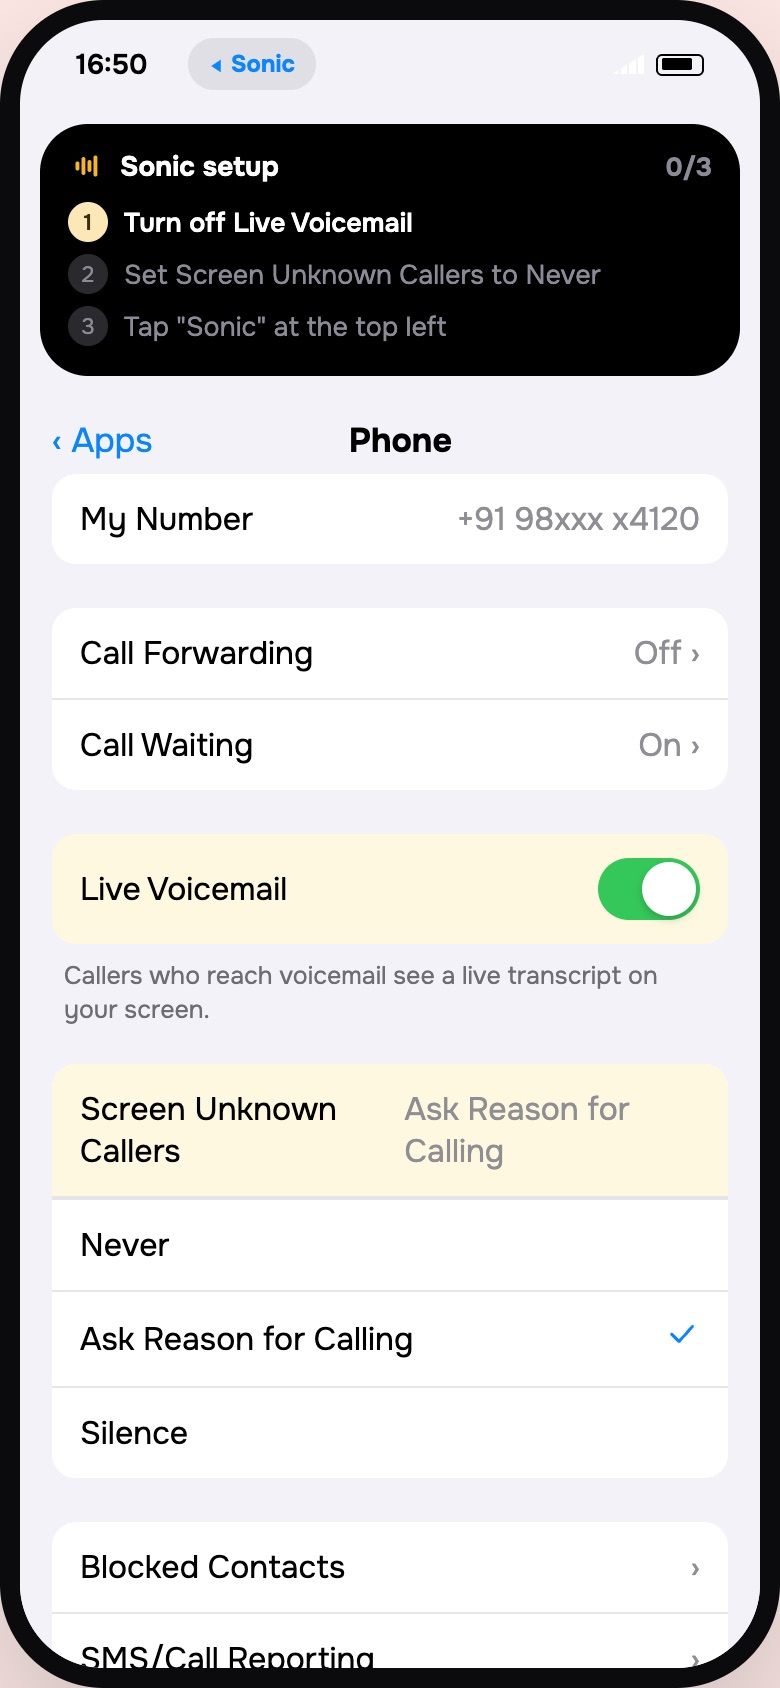
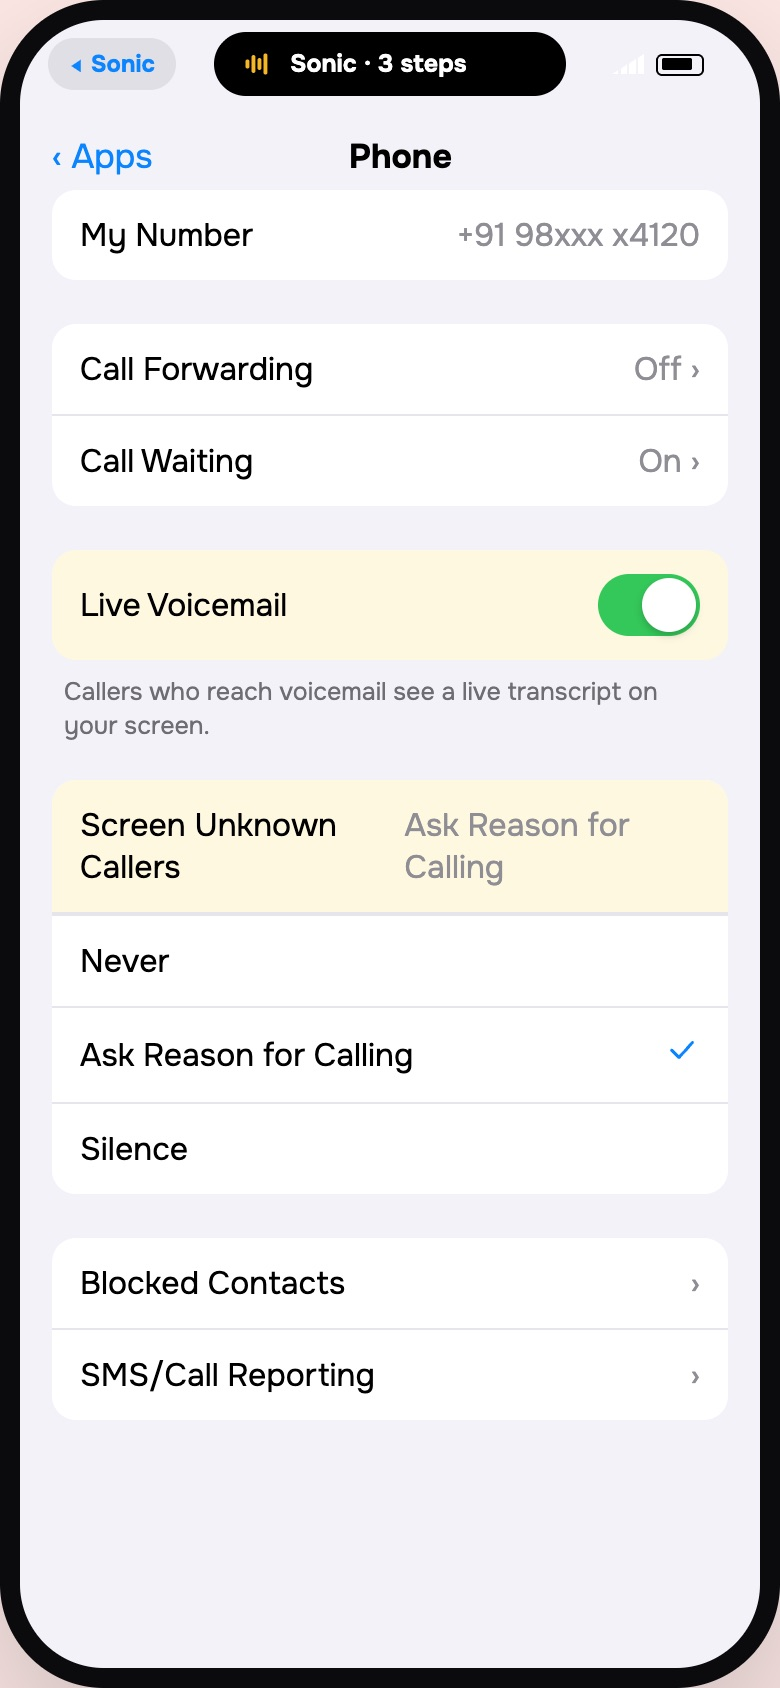
Part A v3.2: honest Live Activity, test-call safety nets
- iPhone: steps live in a static Dynamic Island pill (tap to expand), nothing ticks outside the app
- Android: heads-up notification settles into the shade after a few seconds
- iPhone paste split into three one-line steps on the forwarding screen
- Test call: 'keep your phone unlocked', 'slide to answer' note, number shown with Change
- 'It didn't ring' checks the number first; Android warns when notifications are off
- Notes: setup 'about 3 minutes'

diff --git a/site/onboarding/copy.js b/site/onboarding/copy.js
@@ -52,7 +52,7 @@ en: {
   v_cant_a:'No "Apps" in Settings? Your iPhone has iOS 17: open Settings → Phone instead. If one of the two settings isn\'t there, skip it. The test call at the end will check.', v_how:'Settings opens on Sonic\'s page. Go back to the main list, then tap Apps → Phone.', v_trap:'Leave "Call Forwarding" off. Our code sets it up so your phone still rings first.',
   // forwarding
   f_title:'Send missed calls to Sonic',
-  f_lede:'Dial this code once. That\'s all.', f_then_i:'In Phone, touch and hold the top of the keypad, tap Paste, then press call.', f_then_a:'Press the green call button.', f_act:'Your phone shows "activated". Then come back here.', f_type:'Or type it yourself',
+  f_lede:'Dial this code once. That\'s all.', f_then_i:['Open Phone, tap Keypad.','Hold above the numbers, tap Paste.','Press call. See "activated"? Come back.'], f_then_a:['Press the green call button.','See "activated"? Come back here.'], f_type:'Or type it yourself',
   f_anim:['Someone calls','Your phone rings','You miss it','Sonic answers'],
   f_sim:'Use the SIM for', f_sim_ask:'If your phone asks which SIM, pick this one.', f_sim_change:'Not this number?',
   f_1:'Copy the code', f_1a:'Tap "Open dialer"', f_inside:'The purple part is your Sonic number.',
@@ -67,13 +67,13 @@ en: {
   f_ask_h:'Did you see "activated"?', f_ask_yes:'Yes', f_ask_no:'No, or not sure', fail_t:'Connection problem or invalid MMI code.',
   // test
   x_title:'Let\'s test it',
-  x_lede:'We\'ll call this phone. When it rings, <b>press the red button</b>.', x_hold:'Keep this phone in your hand.', x_press:'Press red',
+  x_lede:'We\'ll call this phone. When it rings, <b>press the red button</b>.', x_hold:'Keep your phone unlocked and in your hand.', x_slide:'If you see "slide to answer", don\'t slide. Sonic picks up after a few rings.', x_change:'Change', x_press:'Press red',
   x_cta:'Call me now', x_ring:'Calling...',
   x_dec:'Decline', x_acc:'Accept', x_test:'Sonic test call',
   x_pick:'You picked up. No problem. Try once more, and decline this time.',
   x_ok_h:'It works', x_ok_p:'Sonic just answered your test call. This is what it said:', x_f1:'Your phone still rings first, every time.', x_f2:'Turn it off anytime: dial ##004#.',
   x_line:'Hello, this is Sonic, Ananya\'s assistant. Ananya can\'t take the call right now. May I know who\'s calling?',
-  x_finish:'Finish', x_noring:'It didn\'t ring', x_noring_h:'Usually one of these', x_noring_l:['The code didn\'t register. Dial it again.','iPhone: Live Voicemail or Screen Unknown Callers is still on.'], x_redo:'Fix it',
+  x_finish:'Finish', x_noring:'It didn\'t ring', x_noring_h:'Usually one of these', x_noring_l:['Check we called the right number. Tap Change on the test screen.','The code didn\'t register. Dial it again.','iPhone: Live Voicemail or Screen Unknown Callers is still on.'], x_redo:'Fix it',
   // live
   l_title:'Sonic is on', l_lede:'Examples of what Sonic will send you after a call.', l_ex:'Example',
   l_n1t:'Urgent · Amma', l_n1b:'Amma called. She says it\'s urgent. Call her back.',
@@ -91,7 +91,7 @@ en: {
   carrier_ok_t:'Call forwarding', carrier_ok_p:'Registration was successful. Service: Voice. Call forwarding when unreachable, busy or no reply: activated.',
   hint_settings:'You\'re in iPhone Settings. Change both, then tap "Sonic" at the top left.',
   hint_dialer:'You\'re in the Phone app. Paste the code and press call.',
-  la_title:'Sonic setup', la_ios_dial:['Touch and hold the top, tap Paste','Press the green call button','Wait for "activated", then come back'], la_and_dial:'Press the green call button. When you see "activated", tap here to come back.', la_back:'Back to Sonic',
+  la_title:'Sonic setup', la_pill:'Sonic · 3 steps', f_nonotif:'Notifications are off, so no helper will appear in the Phone app. Remember: press call, wait for "activated", come back.', la_ios_dial:['Touch and hold the top, tap Paste','Press the green call button','Wait for "activated", then come back'], la_and_dial:'Press the green call button. When you see "activated", tap here to come back.', la_back:'Back to Sonic',
   you_title:'What should Sonic call you?', you_lede:'Sonic says this to every caller:', you_name:'Your first name', you_num:'Your mobile number', you_num_ios:'iPhone doesn\'t let apps read your number, so please type it.', you_num_and:'From SIM 1', you_need:'Type your name first',
   toast_copied:'Code copied',
   step_of:'{a} of {b}', listen:'Listen', stop:'Stop',
@@ -110,8 +110,8 @@ window.NOTES = {
   you:{h:'Ask only what Sonic says out loud',b:['Sonic introduces itself as "your name\'s assistant", so the name is the one thing it must ask. It shows the exact line callers will hear, right as you type.','Android reads the number from the SIM (Phone permission). iPhone cannot, so it asks; a real build would verify it with an OTP.','Nothing else is asked during setup. Home and office addresses come after Sonic is live.'],w:'"Why does it need my name?" Because callers hear it.'},
   choose:{h:'Default: all calls I miss',b:['Family calls are one of Sonic\'s three jobs. If the default skipped saved contacts, most people would never see that job work, so I recommend "All calls I miss".','The first line answers the biggest fear: your phone always rings first.','Each option has an icon and one line, so someone who doesn\'t read every word can still choose.'],w:'"If Amma calls and I miss it, does a bot talk to her?" Only if you choose so, and it tells her it\'s your assistant.'},
   perms:{h:'Prepare them for the popup',b:['Non-tech users often deny system popups out of fear. So the first line says it plainly: "Your phone will show a box. Tap Allow."','One line of why for each, in their terms ("to greet family by name"), not ours.','Notifications are optional, but asked here on purpose: on Android they carry the setup guide while the user is in the Phone app.','If someone taps "Don\'t allow", they get a calm sheet with Try again, not a dead end.'],w:'"Will it read my OTPs?" The promise card answers it before they ask.'},
-  voicemail:{h:'Show the switch before they go looking for it',b:['iPhone\'s Live Voicemail and Screen Unknown Callers answer missed calls before forwarding can, so Sonic never gets them.','The screen shows the two settings as they look in Settings, and warns against the switch people flip by mistake: Call Forwarding.','iOS only deep-links to Sonic\'s own settings page, so the screen says how to get from there to Phone. While they are in Settings, a Live Activity at the top keeps the checklist.','The app can\'t read these settings, so the test call at the end is the real check. "I can\'t find these" is an exit, not a dead end.'],w:'"Where is this setting? I\'ll break something."'},
-  forward:{h:'Call forwarding, shown before it is asked for',b:['The animation explains the whole idea in four beats: someone calls, your phone rings, you miss it, Sonic answers.','Outside the app, Sonic cannot draw on the Phone app or Settings. So the guidance travels with the user the way real apps do it: a Live Activity on iPhone, and an ongoing notification on Android (that is why notifications are asked earlier).','On Android, a later version could run the code itself with the Phone permission (TelephonyManager USSD), and fall back to the dialer when a network blocks it.','One green button copies the code and opens the Phone app. In the dialer, a pulsing hint points at the next tap: Paste, then the green button.','"What you\'ll see" previews the three things that happen outside the app, so nothing feels like an error. "Need help?" offers the steps as audio, a WhatsApp chat, or fixes if it failed.','The brief says "copy the Sonic number and dial it". Dialling the bare number would only call Sonic, so the user copies a code with the number inside it, in purple, and the screen says so.','Sonic cannot choose the SIM for the dialer, so the SIM line is an instruction, not a setting.'],w:'"Is this code safe? I\'ve heard of forwarding scams." Undo is shown before they dial.'},
+  voicemail:{h:'Show the switch before they go looking for it',b:['iPhone\'s Live Voicemail and Screen Unknown Callers answer missed calls before forwarding can, so Sonic never gets them.','The screen shows the two settings as they look in Settings, and warns against the switch people flip by mistake: Call Forwarding.','iOS only deep-links to Sonic\'s own settings page, so the screen says how to get from there to Phone. While they are in Settings, the steps sit in the Dynamic Island; the app only confirms when they come back.','The app can\'t read these settings, so the test call at the end is the real check. "I can\'t find these" is an exit, not a dead end.'],w:'"Where is this setting? I\'ll break something."'},
+  forward:{h:'Call forwarding, shown before it is asked for',b:['The animation explains the whole idea in four beats: someone calls, your phone rings, you miss it, Sonic answers.','Outside the app, Sonic cannot draw on the Phone app or Settings, and cannot see what the user does there. So the steps travel as a Live Activity in the Dynamic Island on iPhone (Lock Screen only on older iPhones), and as an ongoing notification on Android: a heads-up for a few seconds, then in the shade. Both are static lists; nothing ticks until the user is back in Sonic.','On Android, a later version could run the code itself with the Phone permission (TelephonyManager USSD), and fall back to the dialer when a network blocks it.','One green button copies the code and opens the Phone app. In the dialer, a pulsing hint points at the next tap: Paste, then the green button.','"What you\'ll see" previews the three things that happen outside the app, so nothing feels like an error. "Need help?" offers the steps as audio, a WhatsApp chat, or fixes if it failed.','The brief says "copy the Sonic number and dial it". Dialling the bare number would only call Sonic, so the user copies a code with the number inside it, in purple, and the screen says so.','Sonic cannot choose the SIM for the dialer, so the SIM line is an instruction, not a setting.'],w:'"Is this code safe? I\'ve heard of forwarding scams." Undo is shown before they dial.'},
   test:{h:'Prove it on their own phone',b:['The test is the real situation: Sonic calls, you press the red button, Sonic picks up.','The instruction names the colour of the button, not the word "decline". Colour is easier than vocabulary.','Accepting by mistake is fine: "try once more". Success shows the exact line the caller heard.'],w:'"How do I know it actually works?"'},
-  live:{h:'Show the payoff',b:['Three sample notifications, one per call type, so they know what to expect tomorrow.','Delivery details are the next step, not part of setup, so setup stays at about 2 minutes.'],w:'"Can I turn it off?" Pause from Home, or dial ##004#.'}
+  live:{h:'Show the payoff',b:['Three sample notifications, one per call type, so they know what to expect tomorrow.','Delivery details are the next step, not part of setup, so setup stays at about 3 minutes.'],w:'"Can I turn it off?" Pause from Home, or dial ##004#.'}
 };

diff --git a/site/onboarding/app.js b/site/onboarding/app.js
@@ -210,10 +210,8 @@ screens.forward = () => {
       <div class="code"><span>${codeHtml()}</span></div>
       <p class="small" style="margin:8px 0 0">${T('f_inside')}</p>
     </div>
-    <ol class="steps tight">
-      <li><p>${T(ios ? 'f_then_i' : 'f_then_a')}</p></li>
-      <li><p>${T('f_act')}</p></li>
-    </ol>
+    <ol class="steps tight">${T(ios ? 'f_then_i' : 'f_then_a').map(t => `<li><p>${t}</p></li>`).join('')}</ol>
+    ${!ios && !S.perms.notif ? `<div class="trap">${ic('bell', 18)}<span>${T('f_nonotif')}</span></div>` : ''}
     <div class="assure"><div>${ic('undo', 16)} ${T('f_undo')}</div><div>${ic('shield', 16)} ${T('f_down')}</div></div>
     ${ios ? '' : `<div class="simrow">${ic('mobile', 16)} <span>${T('f_sim')} <b>${S.sim === 1 ? '98xxx x4120' : '70xxx x8812'}</b>. ${T('f_sim_ask')}</span><button class="link" data-act="sim-toggle">${T('f_sim_change')}</button></div>`}
   </div>
@@ -225,8 +223,10 @@ screens.test = () => `${appbar('test')}
     <h2>${T('x_title')}</h2>
     <p class="lede">${T('x_lede')}</p>
     <div class="card testcard">
-      <p class="small" style="margin:0">${'We\'ll call'} <b style="color:#fff">${S.sim === 1 ? '98xxx x4120' : '70xxx x8812'}</b>. ${T('x_hold')}</p>
+      <div class="callrow"><span>We'll call <b>${S.os === 'ios' ? '+91 ' + S.num : (S.sim === 1 ? '98xxx x4120' : '70xxx x8812')}</b></span><button class="link" data-act="change-num">${T('x_change')}</button></div>
+      <p class="small" style="margin:6px 0 0">${T('x_hold')}</p>
       <div class="pressred"><span class="redbtn">${ic('phone', 30)}</span><b>${T('x_press')}</b></div>
+      <p class="small" style="margin:12px 0 0">${T('x_slide')}</p>
     </div>
     ${S.testTries > 0 ? `<div class="tip">${T('x_pick')}</div>` : ''}
   </div>
@@ -323,10 +323,11 @@ function artSetup() { return svg(`${card(60, 24, 200, 152)}${['Choose calls', 'A
 
 // ---------- "outside the app" scenes ----------
 // Sonic can't draw on other apps. iPhone: a Live Activity at the top. Android: an ongoing notification.
-function liveAct(items, done) {
-  return `<div class="la" role="status"><div class="la-h">${sonicMini()} ${T('la_title')}<span>${Math.min(done, items.length)}/${items.length}</span></div>${items.map((t, i) => `<div class="la-i ${i < done ? 'done' : i === done ? 'now' : ''}"><i>${i < done ? ic('check', 12) : i + 1}</i>${t}</div>`).join('')}</div>`;
+function liveAct(items) {
+  return `<div class="di" data-act="di-toggle" role="status"><div class="di-pill">${sonicMini()}<span>${T('la_pill')}</span></div><div class="di-list">${items.map((t, i) => `<div class="la-i"><i>${i + 1}</i>${t}</div>`).join('')}</div></div>`;
 }
 function andNote(text) {
+  setTimeout(() => document.querySelector('.an')?.classList.add('gone'), 4500);
   return `<div class="an" role="status"><div class="an-h"><span class="an-ic">${sonicMini()}</span>Sonic · ${T('la_title')} · now</div><p>${text}</p><button data-act="close-outside">${T('la_back')}</button></div>`;
 }
 function outside(html, hint) { const o = document.createElement('div'); o.className = 'outside' + (S.os === 'android' ? ' and' : ''); o.innerHTML = (S.os === 'android' ? '' : `<button class="breadcrumb" data-act="close-outside"><svg viewBox="0 0 10 10" width="8" height="8"><path d="M8 1L2 5l6 4z" fill="currentColor"/></svg> Sonic</button>`) + html; phone.appendChild(o); phone.classList.add('out'); setHint(hint); return o; }
@@ -334,8 +335,7 @@ function closeOutside() { phone.querySelectorAll('.outside,.sysdlg').forEach(n =
 
 function openIOSSettings() {
   const sw = (k, on) => `<button class="ios-switch ${on ? '' : 'off'}" data-ios="${k}"></button>`;
-  const done = (!S.ios.lv ? 1 : 0) + (!S.ios.suc ? 1 : 0);
-  const o = outside(`${liveAct(['Turn off Live Voicemail', 'Set Screen Unknown Callers to Never', 'Tap "Sonic" at the top left'], done === 2 ? 2 : (!S.ios.lv ? 1 : 0))}<div class="ios-settings">
+  const o = outside(`${liveAct(['Turn off Live Voicemail', 'Set Screen Unknown Callers to Never', 'Tap "Sonic" at the top left'])}<div class="ios-settings">
     <div class="nav"><span>‹ Apps</span><b style="color:#000">Phone</b><span style="width:40px"></span></div>
     <div class="ios-group">
       <div class="ios-row">My Number <span class="val">+91 98xxx x4120</span></div>
@@ -367,14 +367,14 @@ function openDialer() {
   const ios = S.os === 'ios';
   let num = ios ? '' : FWD_CODE;
   const keys = [['1', ''], ['2', 'ABC'], ['3', 'DEF'], ['4', 'GHI'], ['5', 'JKL'], ['6', 'MNO'], ['7', 'PQRS'], ['8', 'TUV'], ['9', 'WXYZ'], ['*', ''], ['0', '+'], ['#', '']];
-  const o = outside(`${ios ? `<div id="laDial">${liveAct(T('la_ios_dial'), 0)}</div>` : andNote(T('la_and_dial'))}<div class="dialer ${ios ? 'ios' : 'android'}">
+  const o = outside(`${ios ? liveAct(T('la_ios_dial')) : andNote(T('la_and_dial'))}<div class="dialer ${ios ? 'ios' : 'android'}">
       <div class="dial-num" id="dialnum">${num}</div>
       ${ios ? `<button class="paste-pop" id="paste">Paste</button>` : '<div style="height:36px"></div>'}
       <div class="keys">${keys.map(([k, s]) => `<button class="key" data-k="${k}">${k}<small>${s}</small></button>`).join('')}</div>
       <div class="dialrow"><span></span><button class="callbtn" id="dial"><svg viewBox="0 0 24 24" fill="#fff"><path d="M6.6 10.8a15.1 15.1 0 0 0 6.6 6.6l2.2-2.2c.3-.3.7-.4 1-.2 1.1.4 2.3.6 3.6.6.6 0 1 .4 1 1V20c0 .6-.4 1-1 1A17 17 0 0 1 3 4c0-.6.4-1 1-1h3.5c.6 0 1 .4 1 1 0 1.3.2 2.5.6 3.6.1.3 0 .7-.2 1l-2.3 2.2z"/></svg></button><button class="bksp" id="bksp" aria-label="Delete">${ic('bksp', 26)}</button></div>
     </div>`, T('hint_dialer'));
   const disp = $('#dialnum', o);
-  const callHint = () => { if (ios) $('#laDial', o).innerHTML = liveAct(T('la_ios_dial'), 1); };
+  const callHint = () => {};
   o.addEventListener('click', e => {
     const k = e.target.closest('[data-k]');
     if (k) { num += k.dataset.k; disp.textContent = num; }
@@ -389,7 +389,6 @@ function openDialer() {
 function carrierResult(o) {
   const ios = S.os === 'ios';
   const c = document.createElement('div'); c.className = 'carrier';
-  if (ios && $('#laDial', o)) $('#laDial', o).innerHTML = liveAct(T('la_ios_dial'), 2);
   c.innerHTML = `<div class="box ${ios ? '' : 'android'}"><p class="small" style="margin:0 0 10px;color:#aaa">${ios ? 'Sending...' : 'USSD code running...'}</p></div>`;
   o.appendChild(c);
   setTimeout(() => {
@@ -469,6 +468,8 @@ phone.addEventListener('click', e => {
     case 'close-sheet': return closeSheet();
     case 'close-sheet-next': closeSheet(); return nextStep();
     case 'play': return playVideo();
+    case 'change-num': return go('you');
+    case 'di-toggle': return t.classList.toggle('open');
     case 'listen': return toggleListen(t);
     case 'help': return openSheet(`<h3 style="margin:0 0 14px">${T('help_h')}</h3>
       <div class="helplist">

diff --git a/site/onboarding/style.css b/site/onboarding/style.css
@@ -498,3 +498,20 @@ h2{font-size:22px;line-height:1.2;margin:0 0 8px;font-weight:800}
 .outside .key{width:70px;height:70px;font-size:27px}
 .outside .dialrow{grid-template-columns:70px 70px 70px;gap:22px;margin-top:12px}
 .outside .callbtn{width:70px;height:70px}
+
+/* v3.2: Dynamic Island (static steps, long-press to expand) and a heads-up that settles into the shade */
+.di{position:absolute;top:-38px;left:50%;transform:translateX(-50%);z-index:20;background:#000;color:#fff;border-radius:22px;width:176px;padding:7px 12px;cursor:pointer;transition:width .25s,border-radius .25s}
+.di-pill{display:flex;align-items:center;gap:8px;font-size:12.5px;font-weight:700;white-space:nowrap}
+.di-pill svg{vertical-align:0!important;flex:none}
+.di-list{display:none;margin-top:8px}
+.di.open{width:340px;border-radius:28px;padding:12px 14px}
+.di.open .di-list{display:block}
+.di .la-i{color:#E4E4EC}
+.di .la-i i{background:#2a2a2e;color:#fff}
+.phone.out .statusbar #clock{visibility:hidden}
+.an{transition:opacity .4s,transform .4s}
+.an.gone{opacity:0;transform:translateY(-20px);pointer-events:none;height:0;margin:0;padding:0;overflow:hidden}
+.callrow{display:flex;align-items:center;justify-content:space-between;gap:8px;font-size:15px;color:#C8C8D2}
+.callrow b{color:#fff}
+.callrow .link{font-size:14px;color:#C9B6FF;min-height:36px;padding:4px 6px}
+.outside:not(.and) .breadcrumb{left:14px}
